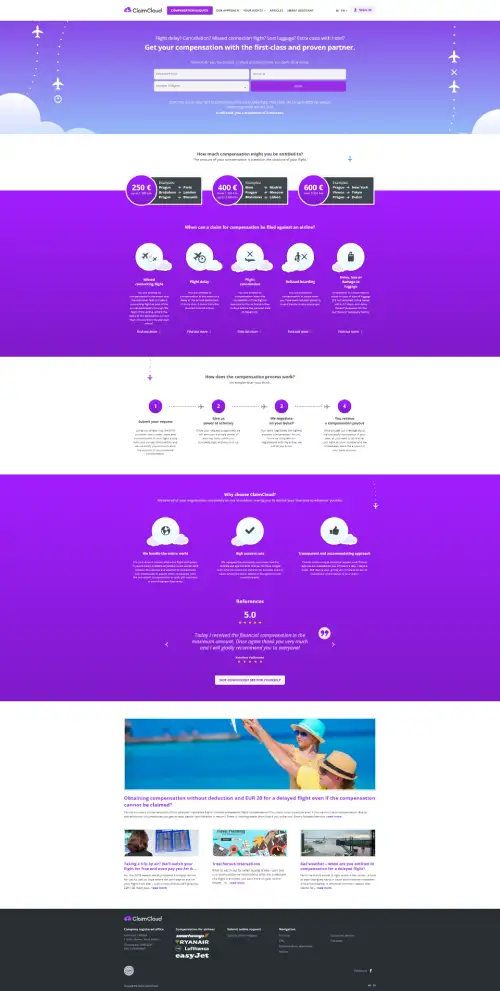
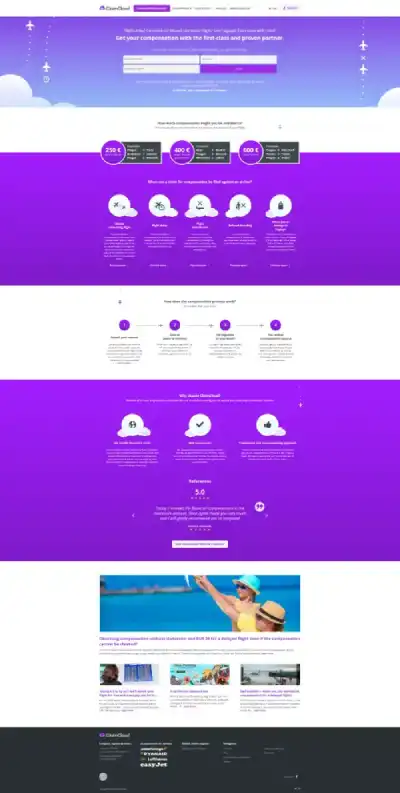
feat: compressed images

diff --git a/src/components/DesignGallery.jsx b/src/components/DesignGallery.jsx
@@ -1,23 +1,21 @@
 import React, { useState, useEffect } from 'react';
-import { collection, getDocs, query, where } from 'firebase/firestore';
-import { db } from '../firebase';
 import Heading from '../ui/Heading';
 import { ProjectImages } from './ProjectImages';
+import { listDocuments } from '../utils/firestoreRest';
 
-const DesignGallery = ({ category, title = "Featured Work", description = "A selection of our recent projects in this area." }) => {
+const DesignGallery = ({
+  category,
+  title = 'Featured Work',
+  description = 'A selection of our recent projects in this area.',
+}) => {
   const [projects, setProjects] = useState([]);
   const [loading, setLoading] = useState(true);
 
   useEffect(() => {
     const fetchProjects = async () => {
       try {
-        const q = query(collection(db, "projects"), where("category", "==", category));
-        const querySnapshot = await getDocs(q);
-        const projectsData = querySnapshot.docs.map((doc) => ({
-          id: doc.id,
-          ...doc.data(),
-        }));
-        setProjects(projectsData);
+        const all = await listDocuments('projects');
+        setProjects(all.filter((p) => p.category === category));
       } catch (error) {
         console.error(`Error fetching ${category} projects:`, error);
       } finally {
@@ -29,24 +27,24 @@ const DesignGallery = ({ category, title = "Featured Work", description = "A sel
   }, [category]);
 
   return (
-    <section className="section flex flex-col items-center my-20 w-full">
-      <div className="w-full text-center flex flex-col items-center mb-12">
-        <Heading className="text-4xl sm:text-6xl mb-4">
-          {title}
-        </Heading>
-        <p className="text-zinc-400 max-w-2xl mx-auto text-lg">
-          {description}
-        </p>
+    <section className='section flex flex-col items-center my-20 w-full'>
+      <div className='w-full text-center flex flex-col items-center mb-12'>
+        <Heading className='text-4xl sm:text-6xl mb-4'>{title}</Heading>
+        <p className='text-zinc-400 max-w-2xl mx-auto text-lg'>{description}</p>
       </div>
-      
-      <div className="w-full">
+
+      <div className='w-full'>
         {loading ? (
-          <div className="flex justify-center items-center min-h-[200px]">
-            <p className="text-xl text-zinc-500 animate-pulse">Loading gallery...</p>
+          <div className='flex justify-center items-center min-h-[200px]'>
+            <p className='text-xl text-zinc-500 animate-pulse'>
+              Loading gallery...
+            </p>
           </div>
         ) : projects.length === 0 ? (
-          <div className="flex justify-center items-center min-h-[200px] border border-dashed border-zinc-700 rounded-2xl bg-zinc-900/30">
-            <p className="text-zinc-500">No projects uploaded yet in this category.</p>
+          <div className='flex justify-center items-center min-h-[200px] border border-dashed border-zinc-700 rounded-2xl bg-zinc-900/30'>
+            <p className='text-zinc-500'>
+              No projects uploaded yet in this category.
+            </p>
           </div>
         ) : (
           <ProjectImages projects={projects} />

diff --git a/src/hooks/usePortfolio.js b/src/hooks/usePortfolio.js
@@ -1,36 +1,35 @@
-import { useState, useEffect } from "react";
-import { collection, getDocs } from "firebase/firestore";
-import { db } from "../firebase";
+import { useState, useEffect } from 'react';
+import { listDocuments } from '../utils/firestoreRest';
 
 export const usePortfolio = () => {
-  const [activeTab, setActiveTab] = useState("All");
+  const [activeTab, setActiveTab] = useState('All');
   const [allProjects, setAllProjects] = useState([]);
-  const [categories, setCategories] = useState(["All"]);
+  const [categories, setCategories] = useState(['All']);
   const [loading, setLoading] = useState(true);
 
   useEffect(() => {
     const fetchProjects = async () => {
       try {
-        const querySnapshot = await getDocs(collection(db, "projects"));
-        const rawData = querySnapshot.docs.map((doc) => ({
-          id: doc.id,
-          ...doc.data(),
-        }));
-        
-        // Exclude design categories so they don't show up in the Web Dev portfolio
-        const excludedCategories = ['Graphic Design', 'Figma Design', 'Logo Design'];
-        const projectsData = rawData.filter(p => !excludedCategories.includes(p.category));
-        
-        // Extract unique categories
+        const rawData = await listDocuments('projects');
+
+        const excludedCategories = [
+          'Graphic Design',
+          'Figma Design',
+          'Logo Design',
+        ];
+        const projectsData = rawData.filter(
+          (p) => !excludedCategories.includes(p.category)
+        );
+
         const uniqueCategories = [
-          "All",
+          'All',
           ...new Set(projectsData.map((p) => p.category).filter(Boolean)),
         ];
 
         setAllProjects(projectsData);
         setCategories(uniqueCategories);
       } catch (error) {
-        console.error("Error fetching projects:", error);
+        console.error('Error fetching projects:', error);
       } finally {
         setLoading(false);
       }
@@ -40,7 +39,7 @@ export const usePortfolio = () => {
   }, []);
 
   const filteredProjects =
-    activeTab === "All"
+    activeTab === 'All'
       ? allProjects
       : allProjects.filter((project) => project.category === activeTab);
 
@@ -49,6 +48,6 @@ export const usePortfolio = () => {
     setActiveTab,
     categories,
     loading,
-    filteredProjects
+    filteredProjects,
   };
 };

diff --git a/src/utils/firestoreRest.js b/src/utils/firestoreRest.js
@@ -1,0 +1,58 @@
+/**
+ * Lightweight public Firestore reads via REST — avoids shipping the ~300KB
+ * Firebase JS SDK on marketing pages (Lighthouse "unused JavaScript").
+ * Admin write paths still use the modular SDK in src/firebase.js.
+ */
+
+const projectId = import.meta.env.VITE_FIREBASE_PROJECT_ID;
+
+const parseValue = (value) => {
+  if (value == null) return null;
+  if ('stringValue' in value) return value.stringValue;
+  if ('integerValue' in value) return Number(value.integerValue);
+  if ('doubleValue' in value) return value.doubleValue;
+  if ('booleanValue' in value) return value.booleanValue;
+  if ('nullValue' in value) return null;
+  if ('timestampValue' in value) return value.timestampValue;
+  if ('arrayValue' in value) {
+    return (value.arrayValue.values || []).map(parseValue);
+  }
+  if ('mapValue' in value) {
+    return parseFields(value.mapValue.fields || {});
+  }
+  return null;
+};
+
+const parseFields = (fields = {}) => {
+  const out = {};
+  for (const [key, value] of Object.entries(fields)) {
+    out[key] = parseValue(value);
+  }
+  return out;
+};
+
+const parseDocument = (doc) => {
+  const id = doc.name?.split('/').pop();
+  return { id, ...parseFields(doc.fields) };
+};
+
+/**
+ * List all documents in a collection (public read rules required).
+ * @param {string} collectionId
+ * @returns {Promise<Array<Record<string, unknown>>>}
+ */
+export const listDocuments = async (collectionId) => {
+  if (!projectId) {
+    throw new Error('VITE_FIREBASE_PROJECT_ID is not set');
+  }
+
+  const url = `https://firestore.googleapis.com/v1/projects/${projectId}/databases/(default)/documents/${collectionId}`;
+  const res = await fetch(url);
+
+  if (!res.ok) {
+    throw new Error(`Firestore REST list failed (${res.status})`);
+  }
+
+  const data = await res.json();
+  return (data.documents || []).map(parseDocument);
+};

diff --git a/index.html b/index.html
@@ -105,20 +105,34 @@
   <body>
     <div id="root"></div>
     <script type="module" src="/src/main.jsx"></script>
-    <!-- Defer analytics so it does not compete with LCP bandwidth -->
+    <!-- Analytics: load only after first interaction (keeps gtag off Lighthouse unused-JS) -->
     <script>
-      window.addEventListener('load', function () {
-        var s = document.createElement('script');
-        s.async = true;
-        s.src = 'https://www.googletagmanager.com/gtag/js?id=G-QDZ7CKLE3F';
-        document.head.appendChild(s);
-        window.dataLayer = window.dataLayer || [];
-        function gtag() {
-          dataLayer.push(arguments);
+      (function () {
+        var loaded = false;
+        function loadGA() {
+          if (loaded) return;
+          loaded = true;
+          ['scroll', 'click', 'keydown', 'touchstart'].forEach(function (evt) {
+            window.removeEventListener(evt, loadGA);
+          });
+          var s = document.createElement('script');
+          s.async = true;
+          s.src = 'https://www.googletagmanager.com/gtag/js?id=G-QDZ7CKLE3F';
+          document.head.appendChild(s);
+          window.dataLayer = window.dataLayer || [];
+          function gtag() {
+            dataLayer.push(arguments);
+          }
+          window.gtag = gtag;
+          gtag('js', new Date());
+          gtag('config', 'G-QDZ7CKLE3F');
         }
-        gtag('js', new Date());
-        gtag('config', 'G-QDZ7CKLE3F');
-      });
+        ['scroll', 'click', 'keydown', 'touchstart'].forEach(function (evt) {
+          window.addEventListener(evt, loadGA, { once: true, passive: true });
+        });
+        // Fallback for sessions with no interaction
+        setTimeout(loadGA, 12000);
+      })();
     </script>
   </body>
 </html>

diff --git a/src/hooks/useReviews.js b/src/hooks/useReviews.js
@@ -1,6 +1,5 @@
-import { useState, useEffect } from "react";
-import { collection, getDocs } from "firebase/firestore";
-import { db } from "../firebase";
+import { useState, useEffect } from 'react';
+import { listDocuments } from '../utils/firestoreRest';
 
 export const useReviews = () => {
   const [reviews, setReviews] = useState([]);
@@ -10,14 +9,10 @@ export const useReviews = () => {
   useEffect(() => {
     const fetchReviews = async () => {
       try {
-        const querySnapshot = await getDocs(collection(db, "reviews"));
-        const data = querySnapshot.docs.map((doc) => ({
-          id: doc.id,
-          ...doc.data(),
-        }));
+        const data = await listDocuments('reviews');
         setReviews(data);
       } catch (error) {
-        console.error("Error fetching reviews:", error);
+        console.error('Error fetching reviews:', error);
       } finally {
         setLoading(false);
       }
@@ -29,7 +24,7 @@ export const useReviews = () => {
     if (reviews.length <= 1) return;
     const interval = setInterval(() => {
       setCurrentIndex((prevIndex) => (prevIndex + 1) % reviews.length);
-    }, 4000); // Slide every 4 seconds
+    }, 4000);
     return () => clearInterval(interval);
   }, [reviews]);
 
@@ -46,6 +41,6 @@ export const useReviews = () => {
     loading,
     currentIndex,
     nextSlide,
-    prevSlide
+    prevSlide,
   };
 };

diff --git a/src/hooks/useLogoSlider.js b/src/hooks/useLogoSlider.js
@@ -1,6 +1,5 @@
 import { useState, useEffect } from 'react';
-import { collection, getDocs } from 'firebase/firestore';
-import { db } from '../firebase';
+import { listDocuments } from '../utils/firestoreRest';
 
 export const useLogoSlider = () => {
   const [logos, setLogos] = useState([]);
@@ -9,9 +8,8 @@ export const useLogoSlider = () => {
   useEffect(() => {
     const fetchLogos = async () => {
       try {
-        const querySnapshot = await getDocs(collection(db, 'logos'));
-        const data = querySnapshot.docs.map((doc) => doc.data().imgUrl);
-        setLogos(data);
+        const data = await listDocuments('logos');
+        setLogos(data.map((doc) => doc.imgUrl).filter(Boolean));
       } catch (error) {
         console.error('Error fetching logos:', error);
       } finally {
